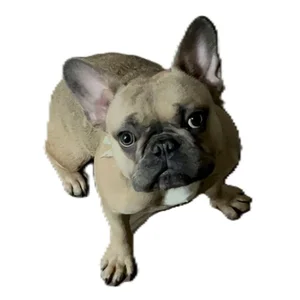
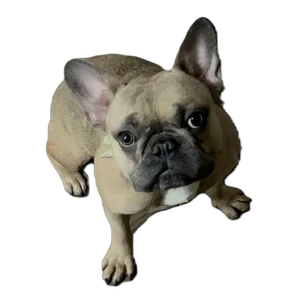
Transparent Billo photo — sits naturally on cream background
Removed background with rembg, saved as transparent WebP.
Removed circular crop and border — Billo's full silhouette now
floats on the cream section with a subtle drop shadow.

diff --git a/index.html b/index.html
@@ -354,7 +354,7 @@
       </div>
       <!-- Billo's photo -->
       <div class="mb-6">
-        <img src="assets/billo.webp" alt="Billo the French Bulldog" class="w-28 h-28 md:w-36 md:h-36 rounded-full mx-auto border-3 object-cover" style="border: 3px solid rgba(212,168,85,0.5); box-shadow: 0 4px 20px rgba(123,30,58,0.15);">
+        <img src="assets/billo.webp" alt="Billo the French Bulldog" class="w-32 h-32 md:w-40 md:h-40 mx-auto object-contain" style="filter: drop-shadow(0 4px 12px rgba(0,0,0,0.15));">
       </div>
       <p class="font-body text-2xl md:text-3xl lg:text-4xl text-burgundy-800/80 italic leading-relaxed mb-6">Woof woof! Henlo frens, I'm Billo, my mom and dad's favourite French Bulldog and the real boss of dis house. My mom and dad went and got married, and I couldn't even be dere! Can you believe it?! I was heckin' busy doing very important things at home, guarding the sofa, snoring loudly, and making sure no treats went missing. Dey say it was all beautiful and full of love, but honestly, it would've been even better wif me dere doing zoomies on the dance floor. Anyway, enjoy all dese pawsome photos of my mom and dad's big day. And if anyone saved me some cake or a piece of tandoori chicken... you are my best fren forever!</p>
       <div class="flex items-center justify-center gap-2 mb-1">
